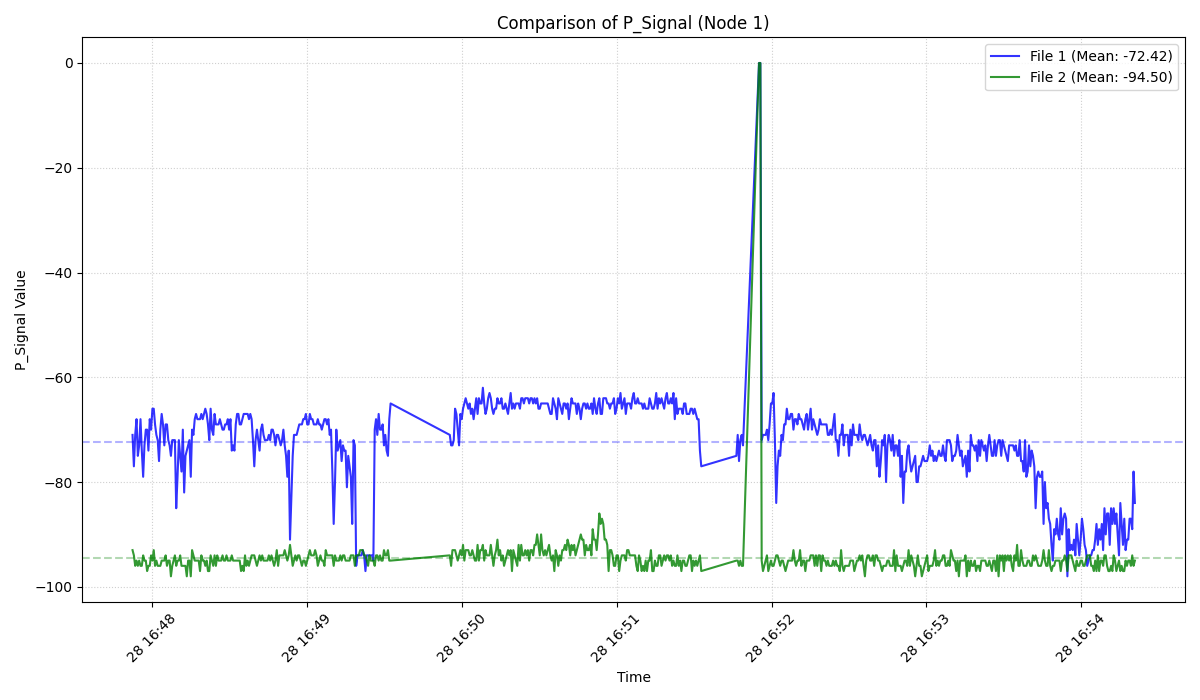
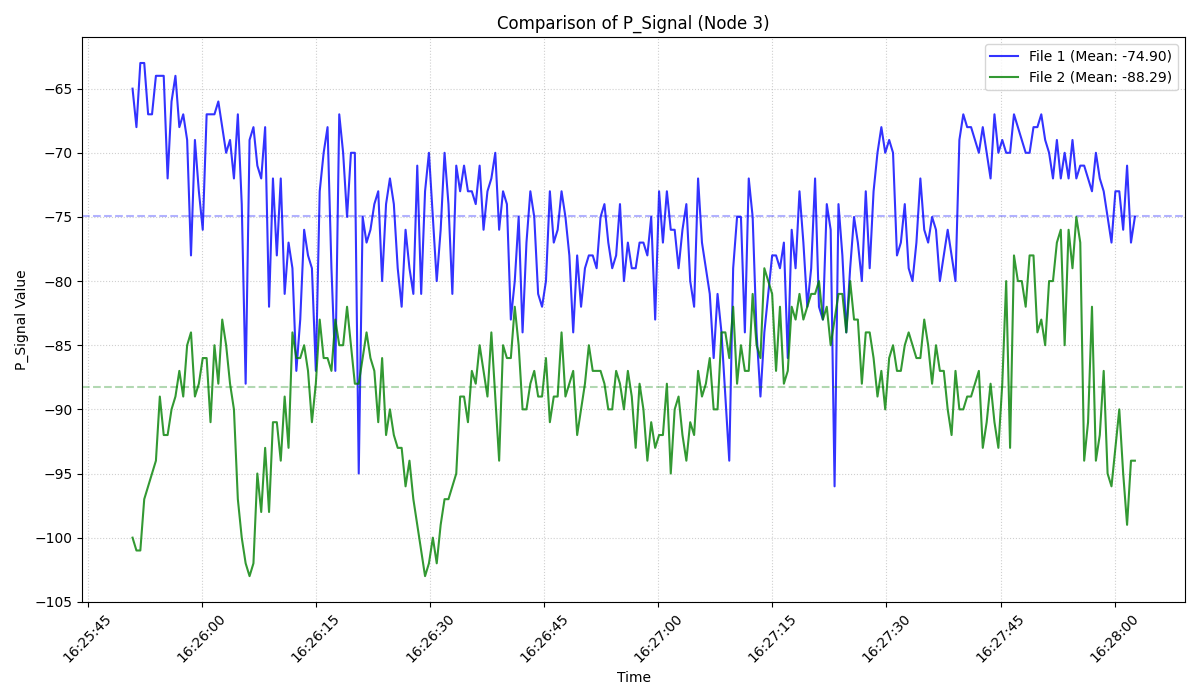
Change timing

diff --git a/src/TDMA.cpp b/src/TDMA.cpp
@@ -134,8 +134,10 @@ void Task_TDMA(void *pvParameters) {
                     }
                 }
                 setup_testcarrier(RF24_PA_MAX, network_params.channel);
+                digitalWrite(PIN_COMPASS_SCL, HIGH);
                 while (micros() < slot_end){ 
                 };
+                digitalWrite(PIN_COMPASS_SCL, LOW);
                 //digitalWrite(PIN_COMPASS_SCL, HIGH);
                 stop_testcarrier(RF24_PA_MAX);
                 modem_rx();
@@ -144,10 +146,10 @@ void Task_TDMA(void *pvParameters) {
             } else {
                 modem_rx();
 #ifndef DUMMY_RADIO
-                set_switches(channel_state_table.switch_states[node_id]);
-                //set_switches(DIR_RX_8);
+                //set_switches(channel_state_table.switch_states[node_id]);
+                set_switches(DIR_RX_6);
 #endif
-                while (micros() < slot_end - t_RSSI_sampling*2) {
+                while (micros() < slot_end - (t_RSSI_sampling*3-1000)) {
                     if (radio.available()) {
                         block_item buf;
                         radio.read(buf.block_payload, 32);
@@ -159,24 +161,28 @@ void Task_TDMA(void *pvParameters) {
                 }
                 
 
-                float rssi = -200.0;
+                float rssi = 0.0;
                 int iterations = 0;
                 
-                while (micros() < (slot_end - t_RSSI_sampling)){
+                while (micros() < (slot_end - (t_RSSI_sampling+2000))){
+                    digitalWrite(PIN_COMPASS_SCL, HIGH);
                     delayMicroseconds(500);
-                    rssi = max(speedy_rssi(), rssi);
+                    rssi += speedy_rssi();
                     iterations++;
                 }
-                channel_state_table.P_Channel[node_id] = rssi;
+                digitalWrite(PIN_COMPASS_SCL, LOW);
+                channel_state_table.P_Channel[node_id] = (rssi)/((float)iterations);
                 delayMicroseconds(1000);
-                rssi = -200.0;
+                rssi = 0.0;
                 iterations = 0;
                 while (micros() < slot_end){ 
+                    digitalWrite(PIN_COMPASS_SCL, HIGH);
                     delayMicroseconds(500);
-                    rssi = max(speedy_rssi(), rssi);
+                    rssi += speedy_rssi();
                     iterations++;
-                };
-                channel_state_table.P_Signal[node_id] = rssi;
+                }
+                digitalWrite(PIN_COMPASS_SCL, LOW);
+                channel_state_table.P_Signal[node_id] = (rssi)/((float)iterations);
 
             }
             node_id = (node_id + 1) % network_params.number_of_nodes;

diff --git a/Stationary.py b/Stationary.py
@@ -2,16 +2,18 @@ import pandas as pd
 import matplotlib.pyplot as plt
 
 # --- CONFIGURATION ---
-FILE_1 = 'omni_m_jammer_drone_part1.csv' 
-FILE_2 = 'omni_m_jammer_drone_part1.csv'  # <--- Change this to your second filename
+FILE_1 = 'Base_dir_real.csv' 
+FILE_2 = 'Base_dir_real.csv'  # <--- Change this to your second filename
 
-NODE_ID = 1
+
+NODE_ID = 3
 
 # Params for File 1
-SKIP_1, END_1 = 10, 3400
+SKIP_1, END_1 = 10, 1300
+
 
 # Params for File 2
-SKIP_2, END_2 = 10, 3400  # Set to a number if you want a specific end row for file 2
+SKIP_2, END_2 = 10, 1300  # Set to a number if you want a specific end row for file 2
 
 def load_and_filter(path, skip, end, node_id):
     """Helper function to load and clean the data"""

diff --git a/src/main.cpp b/src/main.cpp
@@ -35,6 +35,8 @@ void setup() {
     setup_chopper();
     setup_router();
     GPS_setup();
+    pinMode(PIN_COMPASS_SCL, OUTPUT);
+    digitalWrite(PIN_COMPASS_SCL, LOW);
 
     Serial.printf("CPU speed: %dMHz", ESP.getCpuFreqMHz());
     xTaskCreatePinnedToCore(
@@ -99,7 +101,7 @@ void loop() {
             Serial.write((uint8_t)buf[k]);
         }
     }
-    delay(500);
+    delay(250);
 
 }
 

diff --git a/include/network_params.h b/include/network_params.h
@@ -8,7 +8,7 @@ enum MSG_type_t { Near_cast = 0, Broadcast = 1, P2P = 2 };
 
 struct Network_params {
     uint8_t TTL = 6;
-    uint8_t channel = 85;
+    uint8_t channel = 40;
     rf24_datarate_e bitRate = RF24_1MBPS;
     uint8_t number_of_nodes = MAX_NODES;
     uint8_t node_id = 0;

diff --git a/src/rssi.cpp b/src/rssi.cpp
@@ -41,7 +41,7 @@ float speedy_rssi() {
   digitalWrite(PIN_RF_LR1121_CSN, HIGH);
 
 
-  delayMicroseconds(1000);  // fallback hvis ingen BUSY-pin
+  delayMicroseconds(500);  // fallback hvis ingen BUSY-pin
 
   // === Fase 2: Læs response ===
   digitalWrite(PIN_RF_LR1121_CSN, LOW);
